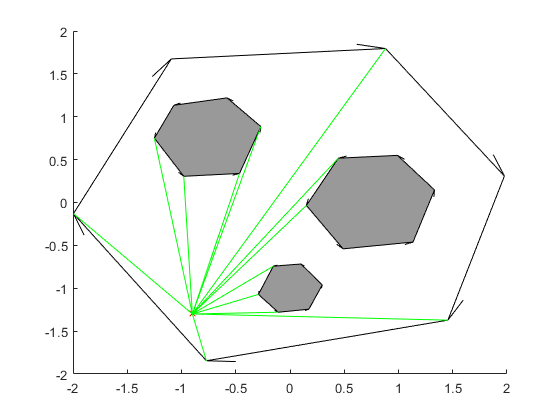
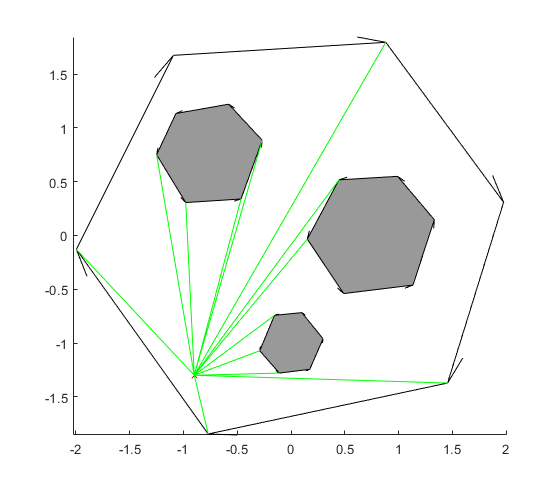
Equal axis scaling

diff --git a/visibility_isVisible_test.m b/visibility_isVisible_test.m
@@ -3,7 +3,7 @@ function visibility_isVisible_test()
 load('polygonWorld','world','xStart');
 %initialize plot variables
 nStart = size(xStart,2);
-xStart(:,nStart) = world(3).vertices(:,1);
+%xStart(:,nStart) = world(3).vertices(:,1);
 for iStart = 1:nStart
     %new figure for each starting point
     figure(iStart)
